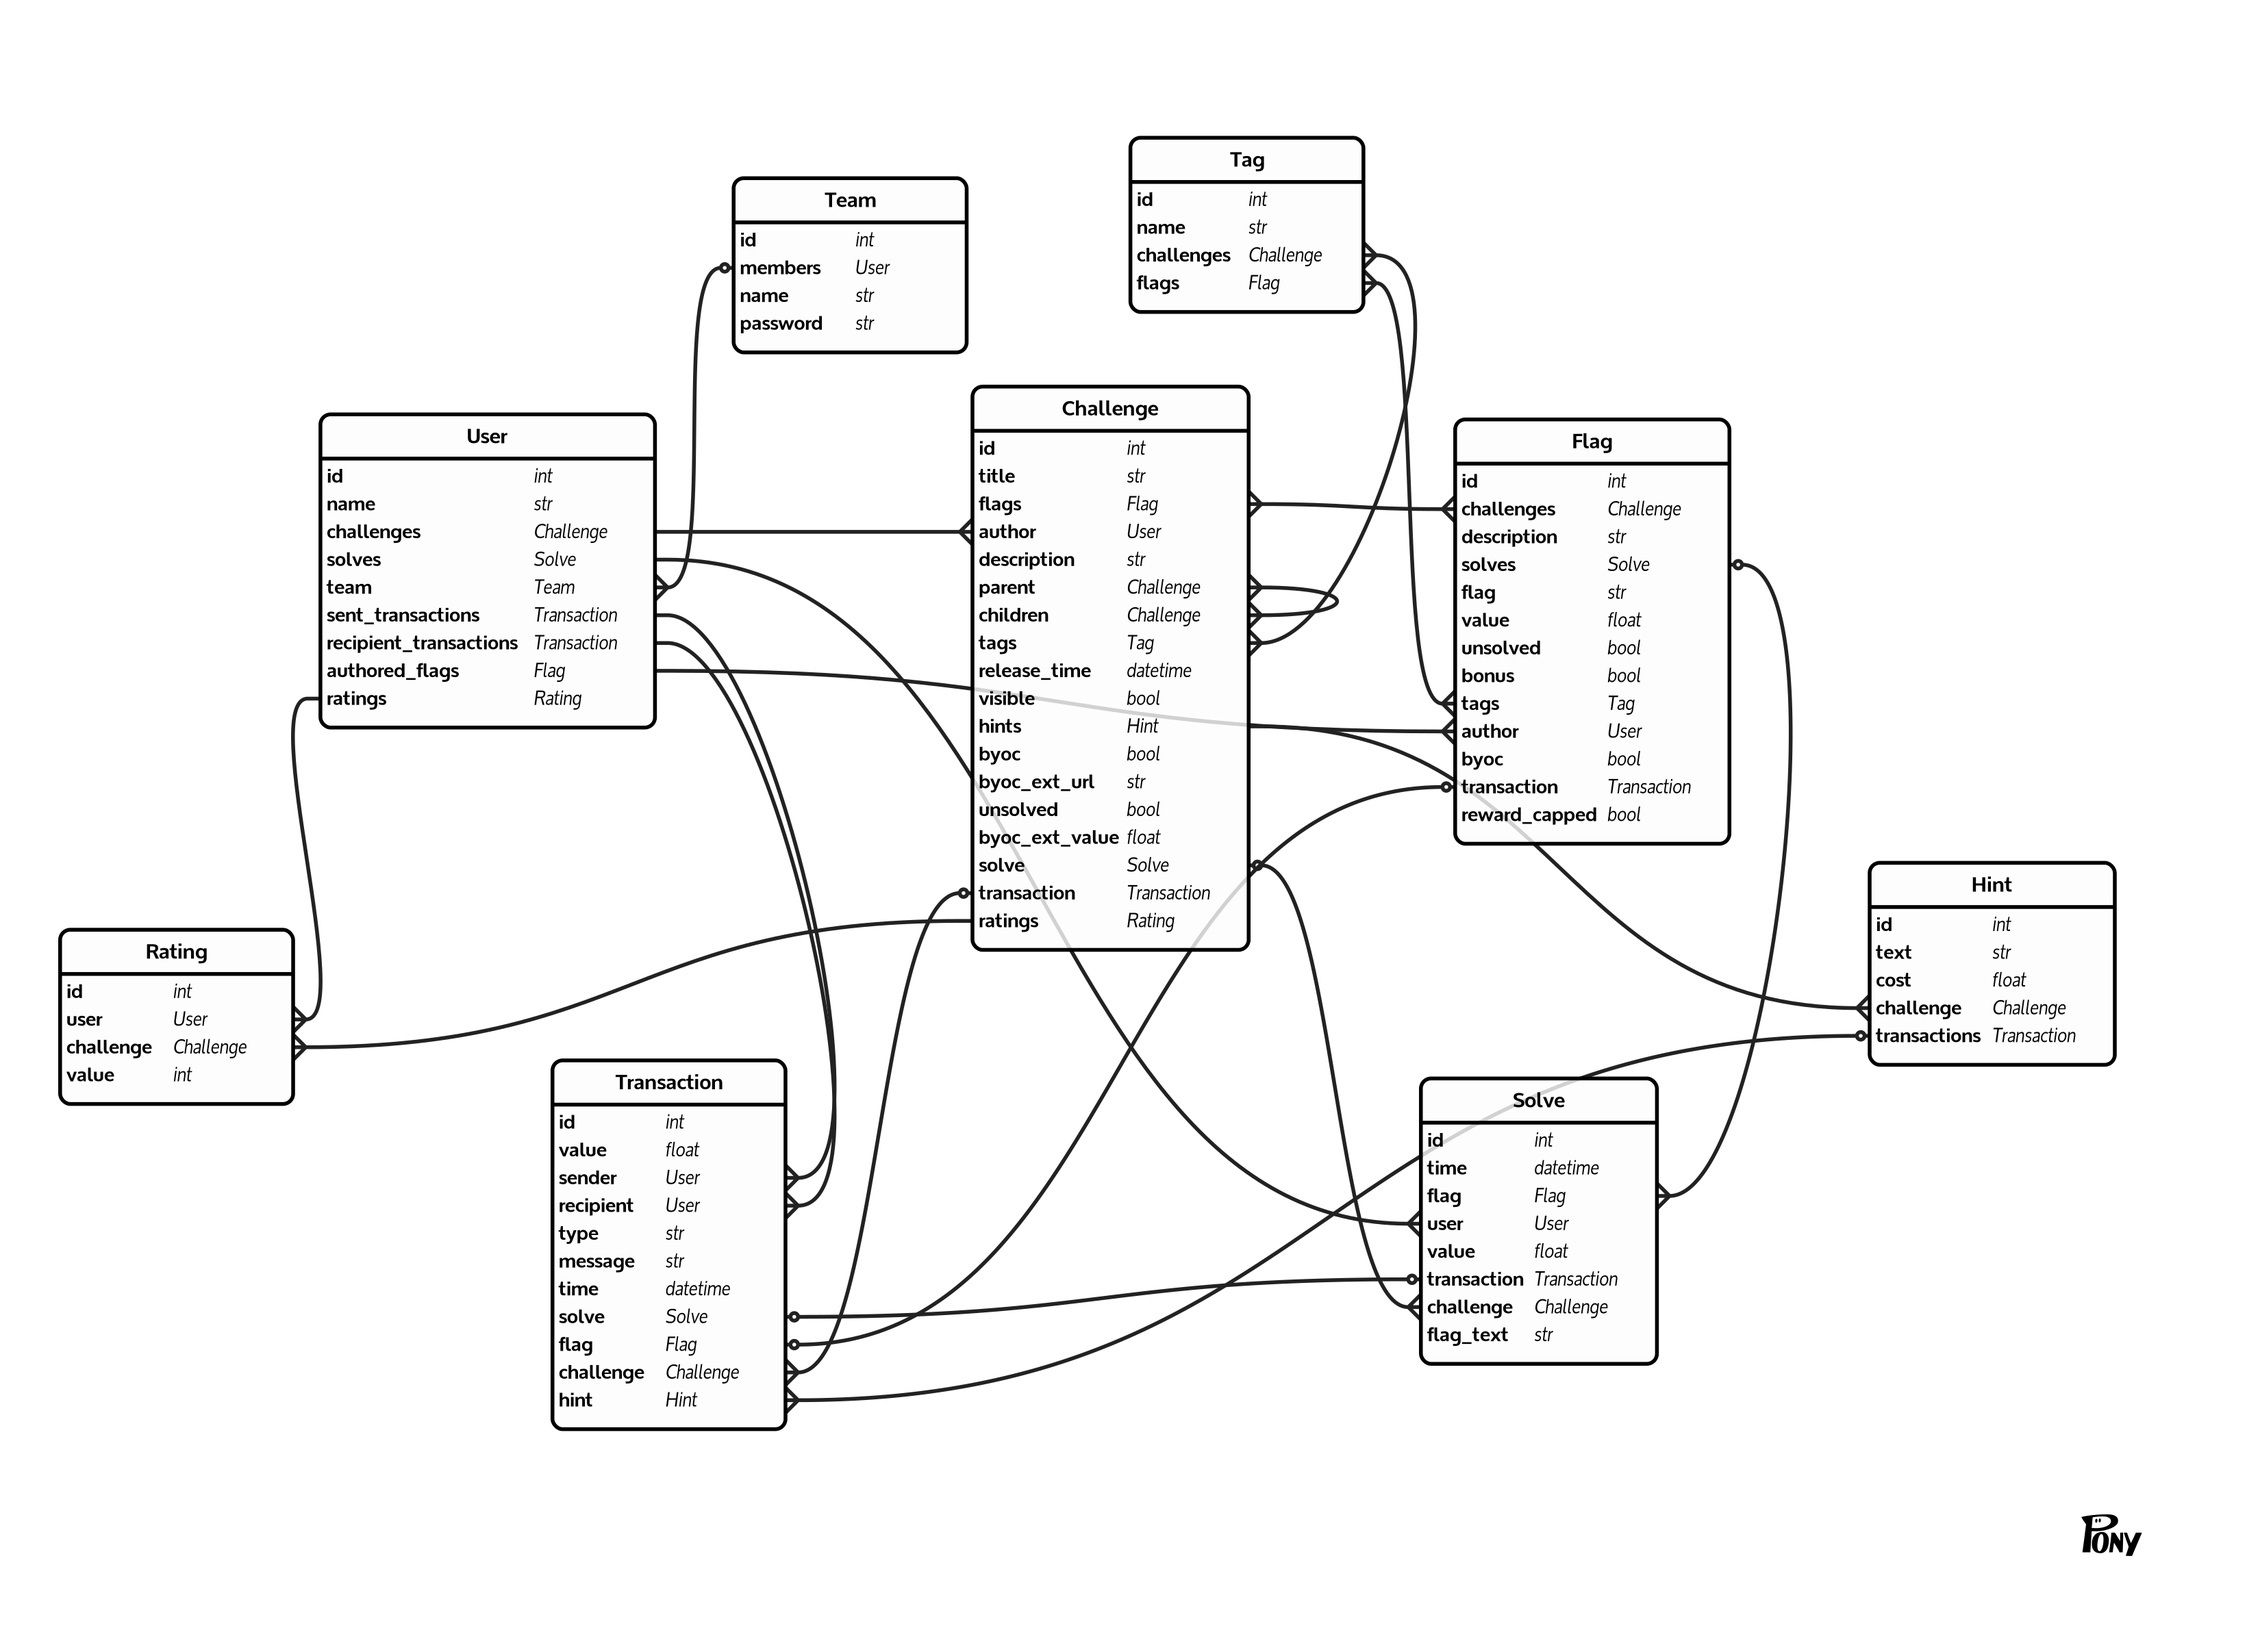
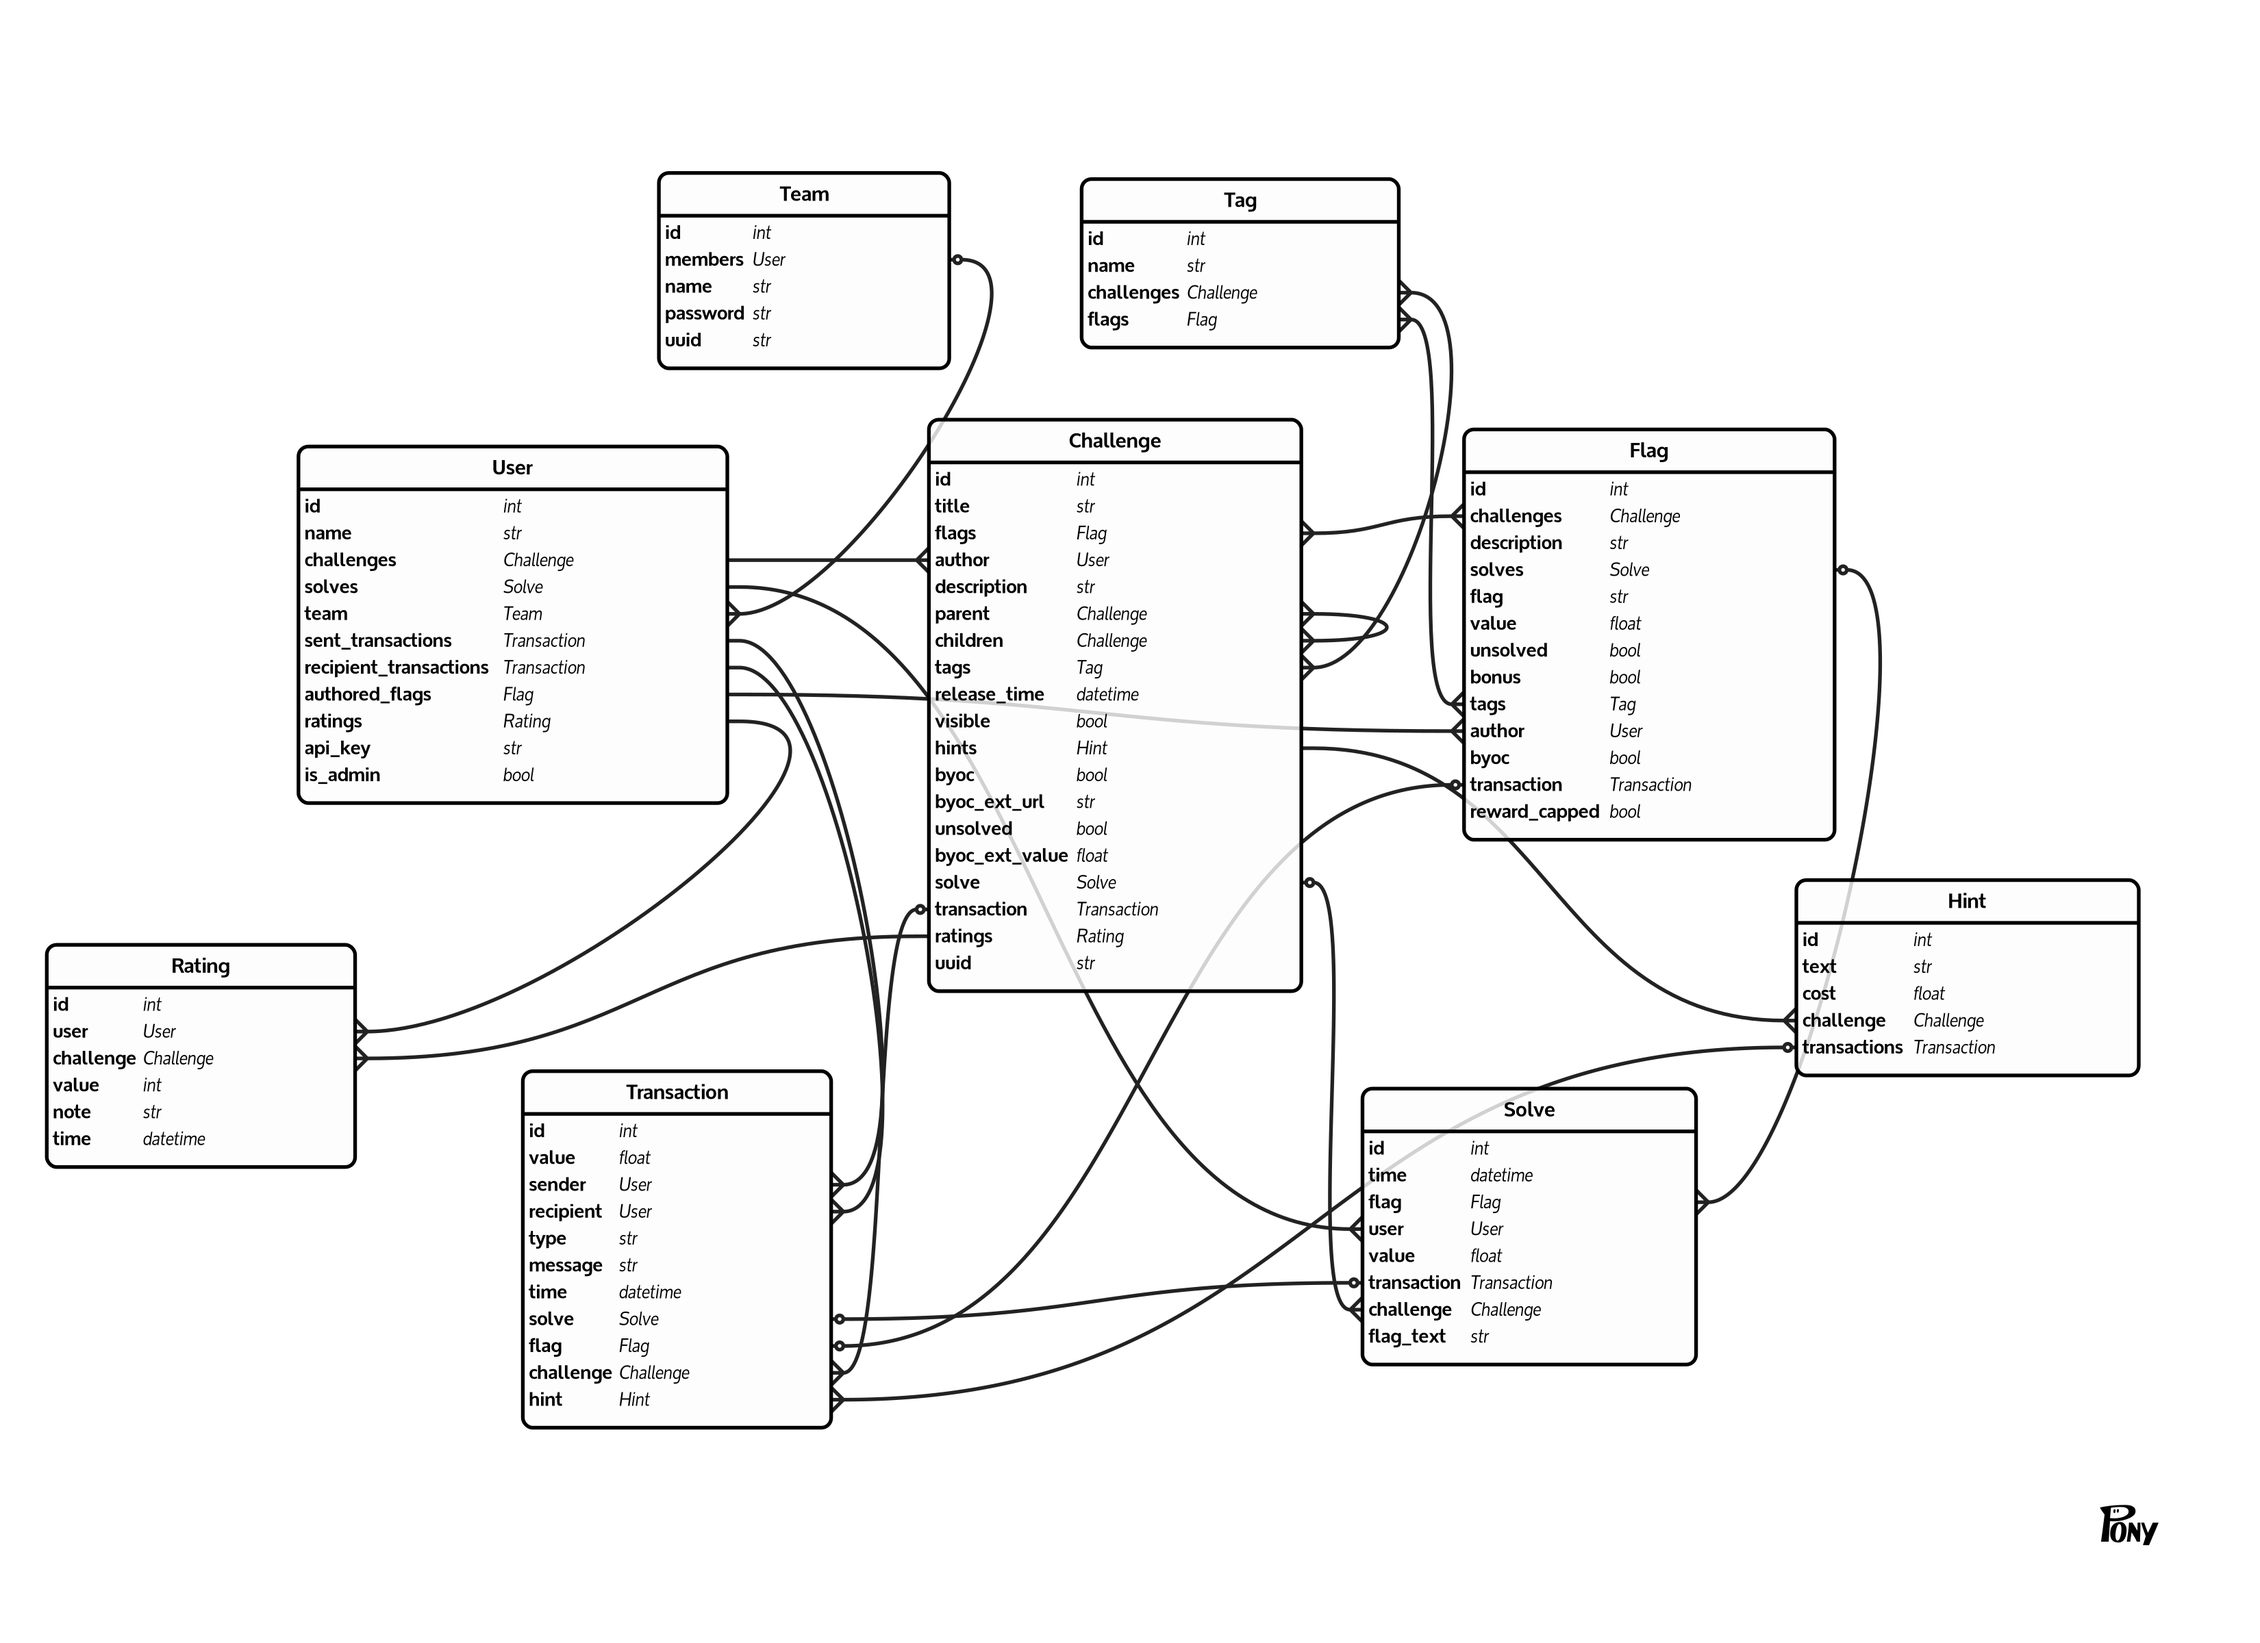
get_team and get_username fix

diff --git a/database.py b/database.py
@@ -28,19 +28,21 @@ from pony.orm import *
 db = Database()
 
 
+
+
 class Flag(db.Entity):
     id = PrimaryKey(int, auto=True)
-    challenges = Set("Challenge")
+    challenges = Set('Challenge')
     description = Optional(str)
-    solves = Set("Solve")
+    solves = Set('Solve')
     flag = Required(str)
     value = Required(float)
     unsolved = Optional(bool, default=True)
     bonus = Optional(bool, default=False)
-    tags = Set("Tag")
-    author = Required("User")
+    tags = Set('Tag')
+    author = Required('User')
     byoc = Optional(bool)
-    transaction = Optional("Transaction")
+    transaction = Optional('Transaction')
     reward_capped = Optional(bool, default=False)
 
 
@@ -48,22 +50,22 @@ class Challenge(db.Entity):
     id = PrimaryKey(int, auto=True)
     title = Required(str)
     flags = Set(Flag)
-    author = Required("User")
+    author = Required('User')
     description = Optional(str)
-    parent = Set("Challenge", reverse="children")
-    children = Set("Challenge", reverse="parent")
-    tags = Set("Tag")
+    parent = Set('Challenge', reverse='children')
+    children = Set('Challenge', reverse='parent')
+    tags = Set('Tag')
     release_time = Optional(datetime, default=lambda: datetime.now())
     visible = Optional(bool, default=True)
-    hints = Set("Hint")
+    hints = Set('Hint')
     byoc = Optional(bool, default=False)
     byoc_ext_url = Optional(str, nullable=True, default=None)
     unsolved = Optional(bool, default=True)
     byoc_ext_value = Optional(float)
-    solve = Set("Solve")
-    transaction = Set("Transaction")
-    ratings = Set("Rating")
-    uuid = Required(uuid.UUID, default=uuid.uuid4)
+    solve = Set('Solve')
+    transaction = Set('Transaction')
+    ratings = Set('Rating')
+    uuid = Optional(str, unique=True, default=lambda: str(uuid.uuid4()))
 
 
 class User(db.Entity):
@@ -76,10 +78,8 @@ class User(db.Entity):
     recipient_transactions = Set('Transaction', reverse='recipient')
     authored_flags = Set(Flag)
     ratings = Set('Rating')
-    api_key = Required(uuid.UUID, default=uuid.uuid4)
+    api_key = Required(str, default=lambda: str(uuid.uuid4()))
     is_admin = Required(bool, default=False)
-    
-
 
 
 class Solve(db.Entity):
@@ -88,7 +88,7 @@ class Solve(db.Entity):
     flag = Optional(Flag)
     user = Required(User)
     value = Required(float)
-    transaction = Optional("Transaction")
+    transaction = Optional('Transaction')
     challenge = Optional(Challenge)
     flag_text = Optional(str)
 
@@ -98,12 +98,12 @@ class Team(db.Entity):
     members = Set(User)
     name = Required(str)
     password = Required(str)
-    uuid = Required(uuid.UUID,default=uuid.uuid4, unique=True)
+    uuid = Required(str, default=lambda: str(uuid.uuid4()))
 
 
 class Tag(db.Entity):
     id = PrimaryKey(int, auto=True)
-    name = Required(str, unique=True)
+    name = Optional(str)
     challenges = Set(Challenge)
     flags = Set(Flag)
 
@@ -111,15 +111,15 @@ class Tag(db.Entity):
 class Transaction(db.Entity):
     id = PrimaryKey(int, auto=True)
     value = Optional(float)
-    sender = Required(User, reverse="sent_transactions")
-    recipient = Required(User, reverse="recipient_transactions")
+    sender = Required(User, reverse='sent_transactions')
+    recipient = Required(User, reverse='recipient_transactions')
     type = Required(str)
     message = Optional(str)
     time = Optional(datetime, default=lambda: datetime.now())
     solve = Optional(Solve)
     flag = Optional(Flag)
     challenge = Optional(Challenge)
-    hint = Optional("Hint")
+    hint = Optional('Hint')
 
 
 class Hint(db.Entity):
@@ -135,7 +135,8 @@ class Rating(db.Entity):
     user = Required(User)
     challenge = Required(Challenge)
     value = Optional(int, default=0)  # 1-5
-
+    note = Optional(str)
+    time = Optional(datetime, default=lambda: datetime.now())
 
 #########
 @db_session
@@ -190,38 +191,27 @@ def generateMapping():
 
 generateMapping()
 
-@db_session
-def get_team_by_id(target:str|int|uuid.UUID) -> User:
-    if isinstance(target, str):
-        try:
-            target = uuid.UUID(target)
-        except ValueError:
-            return None
-        return select(t for t in db.Team if t.uuid == target ).first()
-    if isinstance(target, int):
-        try:
-            target = int(target)
-        except ValueError:
-            return None
-        return select(t for t in db.Team if t.id == target ).first()
-    return None
+def is_valid_uuid(val):
+    try:
+        uuid.UUID(str(val))
+        return True
+    except ValueError:
+        return False
 
+@db_session #TODO 02sep23 this isn't working... 
+def get_team_by_id(target:str|int|uuid.UUID) -> User:
+    if is_valid_uuid(target):
+        return select(t for t in db.Team if str(t.uuid) == str(target) ).first()
+    else:
+        return select(t for t in db.Team if t.id == target ).first()
 
 @db_session
 def get_user_by_id(target:str|int|uuid.UUID) -> User:
-    if isinstance(target, str):
-        try:
-            target = uuid.UUID(target)
-        except ValueError:
-            return None
-        return select(u for u in db.User if u.api_key == target ).first()
-    if isinstance(target, int):
-        try:
-            target = int(target)
-        except ValueError:
-            return None
+    if is_valid_uuid(target):
+        return select(u for u in db.User if str(u.api_key) == str(target) ).first()
+    else:
         return select(u for u in db.User if u.id == target ).first()
-    return None
+    
 
 @db_session
 def grant_points(user:str, admin_user:db.User=None, amount:float=0, msg:str="admin granted points"):

diff --git a/vis.py b/vis.py
@@ -22,8 +22,10 @@ OUTPUT_PATH = '/tmp'
 OMIT_PLAYERS = ['BYOCTF_Automaton#7840']
 
 def make_net():
-	net = Network(height="1080px", width="100%", directed=True, notebook=False, select_menu=True, filter_menu=True, neighborhood_highlight=True, bgcolor="#414199", font_color="#E93CAC", cdn_resources='remote')
-	net.show_buttons()
+	net = Network(height="900px", width="100%", directed=True, notebook=False, select_menu=True, filter_menu=True, neighborhood_highlight=True, bgcolor="#414199", font_color="#E93CAC", cdn_resources='remote')
+	# net.show_buttons()
+	net.show_buttons(filter_=['physics'] )
+
 	return net
 # net.toggle_physics(False)
 
@@ -75,9 +77,13 @@ def trans(trans_type:str='tip', user:str|None=None):
 			if user != None:
 				if user.id not in [trans.sender.id, trans.recipient.id]:
 					continue
+			title = f'''
+Num of sent transactions: {db.select(t for t in db.Transaction if t.sender == trans.sender ).count()}
+Num of recv transactions: {db.select(t for t in db.Transaction if t.recipient == trans.sender ).count()}
 
+			'''.strip()
 			# print(f'trans id {trans.id} - sender "{trans.sender.name}" recipient "{trans.recipient.name}" amount {trans.value}')
-			
+			nxGraph.add_node(trans.sender.name, title=title)
 			nxGraph.add_edge(trans.sender.name, trans.recipient.name, weight=min(avg_trans/trans.value, 20) , type=trans.type ) # type: ignore
 
 			# nxGraph.add_node(trans.sender.name, sender=trans.sender.name, )
@@ -100,12 +106,19 @@ def players():
 		all_teams = db.select(t for t in db.Team if t.name != '__botteam__' )[:]
 		len_all_teams = len(all_teams)
 		avg_score = db.average_score()
-		for team in all_teams:
-			nxGraph.add_node(team.name, size=25, color='#c1ae09', font='20px arial black')
+		for idx, team in enumerate(all_teams):
+			
+			title = f'''
+Team Name: {team.name}
+Team ID: {team.id}
+Team UUID: {team.uuid}
+Team members: {', '.join([p.name for p in team.members])} 
+			'''.strip()
+			nxGraph.add_node(team.name, size=25, color='#c1ae09', font='20px arial black', uuid=str(team.uuid), title=title)
 			for player in team.members:
 				score = db.getScore(player)
 				# print(player, score)
-				nxGraph.add_node(player.name, size=max(max(score,1)//max(score,1), 10), color=random.choice(colors))
+				nxGraph.add_node(player.name, size=max(max(score,1)//max(score,1), 10), color=random.choice(colors), group=idx)
 				nxGraph.add_edge(player.name, team.name)
 	
 	net.from_nx(nxGraph)
@@ -136,7 +149,15 @@ def challs(chall:str|None=None):
 			challs = db.select(c for c in db.Challenge)[:]
 		
 		len_challs = len(challs)
-		for chall in challs:
+		for idx, chall in enumerate(challs):
+			title = f'''
+Challenge Title: {chall.title}
+Challenge ID: {chall.id}
+Challenge UUID: {chall.uuid}
+Challenge Author: {chall.author.name}
+Number of flags: {len(chall.flags)}
+
+			'''.strip()
 			relations = 0
 			
 			relations += len(chall.children)
@@ -144,11 +165,11 @@ def challs(chall:str|None=None):
 			
 			color = colors[relations % len(colors)] # Example logic
 
-			nxGraph.add_node(chall.title, label=f'{chall.title}', color=color, author=chall.author.name)
+			nxGraph.add_node(chall.title, label=f'{chall.title}', color=color, author=chall.author.name, title=title, group=idx)
 
 				
 			for parent in chall.parent:
-				nxGraph.add_node(parent.title, label=parent.title)
+				nxGraph.add_node(parent.title, label=parent.title, group=idx)
 				nxGraph.add_edge(parent.title, chall.title, weight=relations/len_challs) # this is the correct way to express child parent relationships ; test by dev reset and looking at the relationship of small number of challs
 
 	net.from_nx(nxGraph)

diff --git a/scoreboard.py b/scoreboard.py
@@ -208,14 +208,13 @@ def grant_points():
 @limiter.limit("1/second")
 @db.db_session
 def get_team(target):
-    try:
-        target = int(target)
-    except ValueError:
-        pass
-    try: 
+    if db.is_valid_uuid(target):
         target = uuid.UUID(target)
-    except BaseException:
-        pass
+    else:
+        try:
+            target = int(target)
+        except ValueError: 
+            return {'error':'invalid id'}
 
     team:db.Team = db.get_team_by_id(target)
     if team == None:
@@ -230,17 +229,27 @@ def get_team(target):
 
 
 
-@app.get('/api/get_username/<int:uid>')
+@app.get('/api/get_username/<target>')
 @limiter.limit("1/second")
 @db.db_session
-def get_user(uid):
-    user:db.User = db.get_user_by_id(uid)
+def get_user(target):
+    if db.is_valid_uuid(target):
+        target = uuid.UUID(target)
+    else:
+        try:
+            target = int(target)
+        except ValueError: 
+            return {'error':'invalid id'}
+        
+    user:db.User = db.get_user_by_id(target)
     if user == None:
         return "invalid user id", 403
     ret = {
         "username": user.name,
         'teammates': [ tm.name for tm in db.getTeammates(user)],
-        'teamname': user.team.name
+        'teamname': user.team.name, 
+        'id': user.id, 
+        
     }
     return ret
 

diff --git a/byoctf_discord.py b/byoctf_discord.py
@@ -378,7 +378,7 @@ async def register(
             user = db.User(name=username(ctx), team=unafilliated)
 
         if user.team.name != "__unaffiliated__":
-            msg = f"already registered as `{username(ctx)}` on team `{user.team.name}`. Use `!unreg` to leave."
+            msg = f"already registered as `{username(ctx)}` on team `{user.team.name}`. talk to an admin to have your team changed..."
             await ctx.send(msg)
             if SETTINGS["_debug"]:
                 logger.debug(msg)

diff --git a/bigtest.py b/bigtest.py
@@ -3,6 +3,7 @@ import uuid
 from database import *
 import faker
 import pony
+hashlib
 
 fake = faker.Faker()
 with db_session:
@@ -35,7 +36,7 @@ with db_session:
 		while name in team_names:
 			name = fake.company()
 		team_names.add(name)
-		teams.append(db.Team(name=name, password=fake.password()))
+		teams.append(db.Team(name=name, password=hashlib.sha256(fake.password().encode()).hexdigest()))
 
 	# Generate users for each team
 	print(f'creating users')
